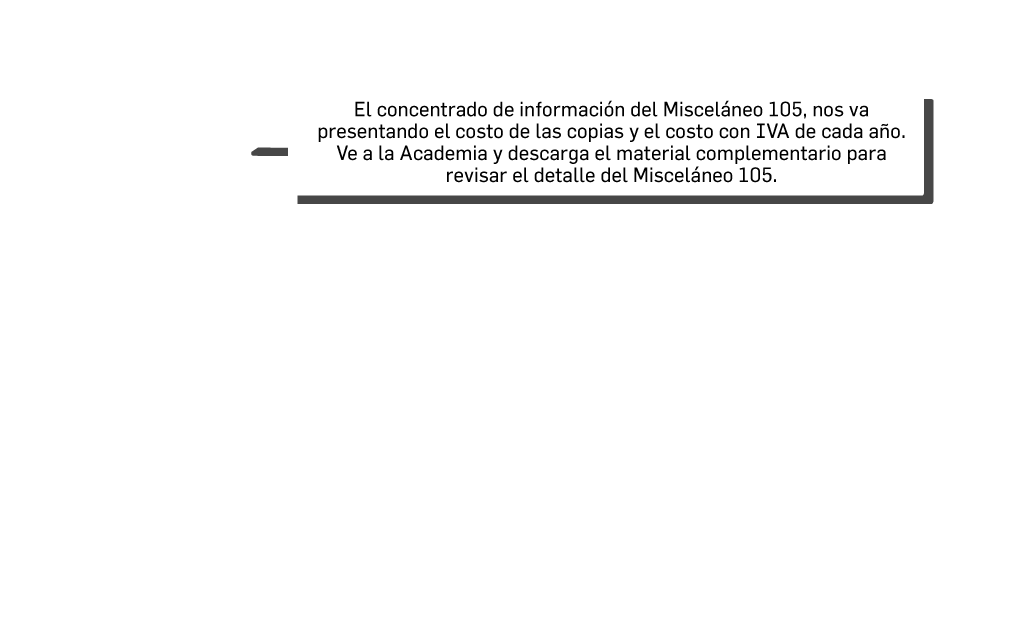
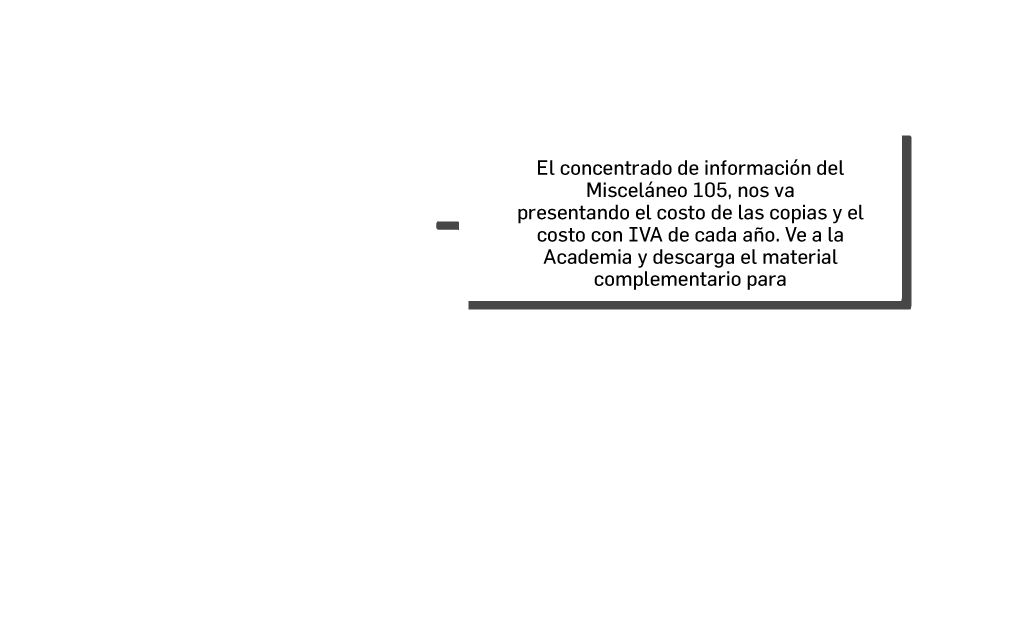
:zap: Ajustes diseño

Changed region(s): [[0.2812, 0.1532, 0.9375, 0.521], [0.25, 0.2145, 0.2812, 0.2758]]

diff --git a/paginas/pagina03.html b/paginas/pagina03.html
@@ -190,11 +190,11 @@
             opacity: 0.2;
           }
         </style>
-        <radialGradient id="_ÂÁ_Ï_ÌÌ_È_ËÂÌÚ_3" data-name="¡ÂÁ˚ÏˇÌÌ˚È „‡‰ËÂÌÚ 3" cx="3044.47" cy="266.32" r="5.34" gradientTransform="translate(-2880.82)" gradientUnits="userSpaceOnUse">
+        <radialGradient id="_ÂÁ_Ï_ÌÌ_È_ËÂÌÚ_3" data-name="¡ÂÁ˚ÏˇÌÌ˚È „‡‰ËÂÌÚ 3" cx="3136.01" cy="447.6" r="8.02" gradientTransform="translate(-2880.82)" gradientUnits="userSpaceOnUse">
           <stop offset="0" stop-color="#4aeaff"/>
           <stop offset="1" stop-color="#00709d"/>
         </radialGradient>
-        <linearGradient id="linear-gradient" x1="414.51" y1="173.02" x2="414.51" y2="202.48" gradientTransform="translate(-242.09)" gradientUnits="userSpaceOnUse">
+        <linearGradient id="linear-gradient" x1="510.44" y1="307.59" x2="510.44" y2="351.79" gradientTransform="translate(-242.09)" gradientUnits="userSpaceOnUse">
           <stop offset="0.02" stop-color="#dc2a21"/>
           <stop offset="0.06" stop-color="#c7201b"/>
           <stop offset="0.1" stop-color="#b61717"/>
@@ -203,7 +203,7 @@
           <stop offset="0.43" stop-color="#a20d11"/>
           <stop offset="0.79" stop-color="#6b0006"/>
         </linearGradient>
-        <linearGradient id="linear-gradient-2" x1="405.96" y1="174.34" x2="405.96" y2="195.48" gradientTransform="translate(-242.09)" gradientUnits="userSpaceOnUse">
+        <linearGradient id="linear-gradient-2" x1="497.6" y1="309.57" x2="497.6" y2="341.29" gradientTransform="translate(-242.09)" gradientUnits="userSpaceOnUse">
           <stop offset="0" stop-color="#ac1a27"/>
           <stop offset="0.08" stop-color="#9e151f"/>
           <stop offset="0.28" stop-color="#7d0a0e"/>
@@ -212,28 +212,28 @@
           <stop offset="0.73" stop-color="#520000"/>
           <stop offset="1" stop-color="#3f0000"/>
         </linearGradient>
-        <linearGradient id="linear-gradient-3" x1="532.12" y1="185.22" x2="546.24" y2="185.22" gradientTransform="matrix(-1, 0, 0, 1, 728.44, 0)" gradientUnits="userSpaceOnUse">
+        <linearGradient id="linear-gradient-3" x1="424.23" y1="325.9" x2="445.42" y2="325.9" gradientTransform="matrix(-1, 0, 0, 1, 728.44, 0)" gradientUnits="userSpaceOnUse">
           <stop offset="0" stop-color="#bd1349"/>
           <stop offset="0.24" stop-color="#bd124e"/>
           <stop offset="0.25" stop-color="#bd124e"/>
           <stop offset="1" stop-color="#7a0025"/>
         </linearGradient>
-        <linearGradient id="linear-gradient-4" x1="528.01" y1="192.25" x2="546.3" y2="192.25" gradientTransform="matrix(-1, 0, 0, 1, 728.44, 0)" gradientUnits="userSpaceOnUse">
+        <linearGradient id="linear-gradient-4" x1="418.05" y1="336.44" x2="445.51" y2="336.44" gradientTransform="matrix(-1, 0, 0, 1, 728.44, 0)" gradientUnits="userSpaceOnUse">
           <stop offset="0" stop-color="#282880"/>
           <stop offset="0.27" stop-color="#26257c"/>
           <stop offset="0.56" stop-color="#1f1b6f"/>
           <stop offset="0.85" stop-color="#140b5a"/>
           <stop offset="1" stop-color="#0d004c"/>
         </linearGradient>
-        <linearGradient id="linear-gradient-5" x1="532.33" y1="192.25" x2="546.24" y2="192.25" xlink:href="#linear-gradient-3"/>
-        <linearGradient id="linear-gradient-6" x1="535.15" y1="185.16" x2="552.62" y2="185.16" xlink:href="#linear-gradient-4"/>
-        <linearGradient id="linear-gradient-7" x1="419.29" y1="191.55" x2="419.29" y2="181.54" gradientTransform="translate(-242.09)" gradientUnits="userSpaceOnUse">
+        <linearGradient id="linear-gradient-5" x1="424.55" y1="336.44" x2="445.41" y2="336.44" xlink:href="#linear-gradient-3"/>
+        <linearGradient id="linear-gradient-6" x1="428.78" y1="325.81" x2="454.99" y2="325.81" xlink:href="#linear-gradient-4"/>
+        <linearGradient id="linear-gradient-7" x1="517.61" y1="335.39" x2="517.61" y2="320.38" gradientTransform="translate(-242.09)" gradientUnits="userSpaceOnUse">
           <stop offset="0" stop-color="#ec2d24"/>
           <stop offset="0.12" stop-color="#ec2824"/>
           <stop offset="0.25" stop-color="#eb1c24"/>
           <stop offset="1" stop-color="#74020d"/>
         </linearGradient>
-        <radialGradient id="radial-gradient" cx="3236.34" cy="391.8" r="10.62" gradientTransform="matrix(0.74, 0.02, -0.03, 0.82, -2288.1, -206.49)" gradientUnits="userSpaceOnUse">
+        <radialGradient id="radial-gradient" cx="3321.97" cy="562.71" r="15.94" gradientTransform="matrix(0.74, 0.02, -0.03, 0.82, -2288.1, -206.49)" gradientUnits="userSpaceOnUse">
           <stop offset="0" stop-color="#00ddde" stop-opacity="0.52"/>
           <stop offset="0.09" stop-color="#2de6e7" stop-opacity="0.65"/>
           <stop offset="0.2" stop-color="#63f1f1" stop-opacity="0.8"/>
@@ -252,11 +252,11 @@
           <stop offset="0.94" stop-color="#baf5f6" stop-opacity="0.27"/>
           <stop offset="1" stop-color="#fff" stop-opacity="0"/>
         </radialGradient>
-        <linearGradient id="_ÂÁ_Ï_ÌÌ_È_ËÂÌÚ_14" data-name="¡ÂÁ˚ÏˇÌÌ˚È „‡‰ËÂÌÚ 14" x1="2975.49" y1="251.72" x2="3034.93" y2="251.72" gradientTransform="translate(-2856.17 13.43) rotate(-2.88)" gradientUnits="userSpaceOnUse">
+        <linearGradient id="_ÂÁ_Ï_ÌÌ_È_ËÂÌÚ_14" data-name="¡ÂÁ˚ÏˇÌÌ˚È „‡‰ËÂÌÚ 14" x1="3043.83" y1="360.9" x2="3133.03" y2="360.9" gradientTransform="translate(-2856.17 13.43) rotate(-2.88)" gradientUnits="userSpaceOnUse">
           <stop offset="0" stop-color="#003a6b"/>
           <stop offset="1" stop-color="#00204c"/>
         </linearGradient>
-        <linearGradient id="_ÂÁ_Ï_ÌÌ_È_ËÂÌÚ_2" data-name="¡ÂÁ˚ÏˇÌÌ˚È „‡‰ËÂÌÚ 2" x1="3025.44" y1="88.86" x2="3055.56" y2="139.6" gradientTransform="translate(-2880.82)" gradientUnits="userSpaceOnUse">
+        <linearGradient id="_ÂÁ_Ï_ÌÌ_È_ËÂÌÚ_2" data-name="¡ÂÁ˚ÏˇÌÌ˚È „‡‰ËÂÌÚ 2" x1="3107.45" y1="181.29" x2="3152.64" y2="257.44" gradientTransform="translate(-2880.82)" gradientUnits="userSpaceOnUse">
           <stop offset="0" stop-color="#cad6e0"/>
           <stop offset="0.05" stop-color="#aec0d0"/>
           <stop offset="0.15" stop-color="#7998b1"/>
@@ -276,115 +276,115 @@
           </g>
           <g id="brazoDerecho">
             <g>
-              <path class="cls-3" d="M225.5,199.12c-8.77-29.16-24.59-39-24.59-39s-6.8-1.2-13.25,7.87a13.74,13.74,0,0,0-1.92,12.39s27.08,27.09,33.95,35.94S228.8,210.07,225.5,199.12Z"/>
-              <path class="cls-3" d="M225.5,199.12c-8.77-29.16-24.59-39-24.59-39s-6.8-1.2-13.25,7.87a13.74,13.74,0,0,0-1.92,12.39s27.08,27.09,33.95,35.94S228.8,210.07,225.5,199.12Z"/>
-              <path class="cls-4" d="M223.55,203.83c-6.14-17.23-11.73-25.45-17.23-30-9.43-7.84-16.53-6.45-21-.5a13.78,13.78,0,0,1,2.33-5.31c6.45-9.07,13.25-7.87,13.25-7.87s15.82,9.82,24.59,39c2.28,7.57,1.91,17.12-.8,19.38C224.9,217.69,227.21,214.08,223.55,203.83Z"/>
-              <path class="cls-3" d="M208.26,203a13.08,13.08,0,0,1,2.28,7.37,15.3,15.3,0,0,1-1.31,4.39,3.38,3.38,0,0,0,3.3-.71c1.64-1.38,2.11-3.79,2.44-4.84S208.26,203,208.26,203Z"/>
-              <path class="cls-5" d="M206.31,181.35a98.58,98.58,0,0,0-8-7.69c-1.41-1.15,0-2.32,1.26-1.53,2.8,1.73,6.89,5.86,12,11.84,3,3.49,11,17.58,11.86,26.87A79.17,79.17,0,0,0,206.31,181.35Z"/>
-              <path class="cls-6" d="M225.13,196.12l0,0a.41.41,0,0,0-.51.11c-3.54,4.95-10.92,8.66-17.61,5.78a.41.41,0,0,0-.5.15.29.29,0,0,0,.17.42c7.08,3,14.86-.83,18.57-6A.28.28,0,0,0,225.13,196.12Z"/>
+              <path class="cls-3" d="M347,341.77c-13.17-41.4-36.91-55.34-36.91-55.34s-10.2-1.71-19.88,11.16a18.64,18.64,0,0,0-2.88,17.6s40.63,38.47,50.94,51S352,357.32,347,341.77Z"/>
+              <path class="cls-3" d="M347,341.77c-13.17-41.4-36.91-55.34-36.91-55.34s-10.2-1.71-19.88,11.16a18.64,18.64,0,0,0-2.88,17.6s40.63,38.47,50.94,51S352,357.32,347,341.77Z"/>
+              <path class="cls-4" d="M344.08,348.46c-9.22-24.46-17.6-36.14-25.86-42.62-14.15-11.12-24.8-9.15-31.49-.7a19.11,19.11,0,0,1,3.49-7.55c9.68-12.87,19.88-11.16,19.88-11.16s23.74,13.94,36.91,55.34c3.42,10.75,2.86,24.31-1.21,27.52C346.1,368.14,349.57,363,344.08,348.46Z"/>
+              <path class="cls-3" d="M321.13,347.25c2.29,2.57,3.57,7.9,3.42,10.47a21,21,0,0,1-2,6.24,5.32,5.32,0,0,0,5-1c2.46-2,3.17-5.38,3.66-6.87S321.13,347.25,321.13,347.25Z"/>
+              <path class="cls-5" d="M318.21,316.55a147.09,147.09,0,0,0-12-10.93c-2.11-1.63-.05-3.3,1.89-2.17,4.21,2.46,10.34,8.33,18,16.81,4.46,5,16.48,25,17.79,38.15A110.75,110.75,0,0,0,318.21,316.55Z"/>
+              <path class="cls-6" d="M346.45,337.51l0,0a.63.63,0,0,0-.76.15c-5.32,7-16.39,12.29-26.44,8.21a.61.61,0,0,0-.74.21.41.41,0,0,0,.25.6c10.63,4.32,22.29-1.18,27.87-8.55A.4.4,0,0,0,346.45,337.51Z"/>
             </g>
-            <path class="cls-7" d="M201.56,170.6c.55-8-2.25-14.67-6.26-14.87s-7.69,6.12-8.24,14.14,2.26,14.66,6.26,14.87S201,178.61,201.56,170.6Z"/>
+            <path class="cls-7" d="M311.08,301.28c.82-11.38-3.38-20.83-9.39-21.12s-11.55,8.7-12.37,20.07,3.38,20.83,9.39,21.12S310.26,312.65,311.08,301.28Z"/>
           </g>
           <g id="torso">
-            <path class="cls-3" d="M110.59,151.24c-4.15-.27-18.78,14.41-14.38,28.65s29.34,61.75,35,78.39,9,20.73,17.06,22.24,20.17,2.06,34.23-27.31,16.23-62.35,16.87-78-1-21.89-6.48-23.68C180.1,147.34,110.59,151.24,110.59,151.24Z"/>
-            <path class="cls-5" d="M176.81,249.75c10.9-30.89,9.59-64.1,8.58-79.84-.68-10.46-1.91-16.63-4.32-19.95-11.62-.65-28.59-.36-43,.1,7.69,20.28,19.06,54.44,21,89.63,1.26,23.48-2,34.95-6.47,40.82C159.9,279.05,168.69,272.74,176.81,249.75Z"/>
-            <path class="cls-8" d="M194.09,152.81c0,3.05-21.51,7.77-43.22,7.81S107.64,156,107.63,153s21.52-3.32,43.23-3.35S194.08,149.77,194.09,152.81Z"/>
-            <path class="cls-9" d="M181,153.43c0,2.11-14.82,5.38-29.77,5.4s-29.78-3.19-29.79-5.3,14.82-2.3,29.78-2.32S181,151.33,181,153.43Z"/>
-            <path class="cls-10" d="M171.87,154.53c0,.8-10.22,1.82-20.18,1.84s-19.5-1-19.5-1.78,9.53-1.12,19.49-1.14S171.87,153.72,171.87,154.53Z"/>
-            <path class="cls-11" d="M140.12,261.72c-2.3-12.45-5.74-53.17-13.93-81.91-4.1-14.4-13.76-24.56-23.1-21.34-6.64,2.28-9.26,13.72-6.88,21.42,4.41,14.24,29.34,61.75,35,78.39s9,20.73,17.06,22.24c4.14.78,9.36,1.29,15.38-2.4C155.49,279.4,143.94,282.34,140.12,261.72Z"/>
-            <path class="cls-12" d="M168.85,267.78a14.82,14.82,0,0,1-4.94.82,22.76,22.76,0,0,1-5.54-.41,2.21,2.21,0,0,1-1.93-2.05h0a2,2,0,0,1,1.94-2.06s4.25.48,5.29.47a36.87,36.87,0,0,0,5.38-.51c1.06,0,2.06.32,1.74,1.85A2.65,2.65,0,0,1,168.85,267.78Z"/>
-            <path class="cls-13" d="M168.17,267.55a15,15,0,0,1-4.27.58,23.77,23.77,0,0,1-4.79-.29c-.89-.18-1.67-.66-1.67-1.46h0a1.58,1.58,0,0,1,1.68-1.46s3.68.34,4.57.33a40.29,40.29,0,0,0,4.65-.36c.92,0,1.78.22,1.5,1.31C169.72,266.71,169.29,267.21,168.17,267.55Z"/>
-            <path class="cls-6" d="M162.71,258.39c-9.78,0-21.77-2.12-34.7-7.43a.35.35,0,0,1,.26-.65c24.1,9.91,44.83,8.65,53.9,3.29a.35.35,0,0,1,.47.12.34.34,0,0,1-.12.48C178.21,256.75,171.32,258.39,162.71,258.39Z"/>
-            <path class="cls-14" d="M162.46,257.62c-9.78,0-21.77-2.12-34.7-7.44a.33.33,0,0,1-.19-.45.34.34,0,0,1,.45-.19c24.1,9.9,44.83,8.65,53.9,3.29a.34.34,0,1,1,.35.59C178,256,171.06,257.62,162.46,257.62Z"/>
-            <path class="cls-5" d="M197.53,159.27c1.85,37.66-3.58,55.48-3.58,55.48s5.19-28.46.4-55.95C193.69,155,197.24,153.39,197.53,159.27Z"/>
-            <path class="cls-14" d="M111,156.64s4.28,2.58,20,4,36.29,1.17,36.29,1.17-19,2.52-36.37.65S111,156.64,111,156.64Z"/>
-            <path class="cls-15" d="M166.2,265.13c-.76.06-1.64.11-2.51.12s-4.57-.33-4.57-.33a2,2,0,0,0-.35,0l1.69,3.08a31.72,31.72,0,0,0,3.44.1,15.82,15.82,0,0,0,4-.5Z"/>
+            <path class="cls-3" d="M175.56,274.91c-6.22-.4-28.17,21.61-21.57,43s44,92.67,52.49,117.63,13.56,31.12,25.6,33.38,30.26,3.09,51.37-41,24.35-93.56,25.31-117.08S307.26,278,299,275.31C279.87,269.05,175.56,274.91,175.56,274.91Z"/>
+            <path class="cls-5" d="M274.93,422.73c16.36-46.36,14.39-96.19,12.87-119.81-1-15.69-2.86-24.95-6.47-29.93-17.44-1-42.9-.55-64.48.14,11.54,30.44,28.59,81.7,31.43,134.51,1.9,35.23-3,52.44-9.71,61.25C249.56,466.7,262.75,457.23,274.93,422.73Z"/>
+            <path class="cls-8" d="M300.86,277.27c0,4.56-32.28,11.66-64.84,11.71s-64.88-6.93-64.89-11.5,32.29-5,64.86-5S300.86,272.7,300.86,277.27Z"/>
+            <path class="cls-9" d="M281.17,278.2c0,3.16-22.23,8.06-44.67,8.1s-44.69-4.79-44.69-7.95,22.24-3.45,44.67-3.49S281.17,275,281.17,278.2Z"/>
+            <path class="cls-10" d="M267.52,279.84c0,1.21-15.33,2.74-30.28,2.76S208,281.15,208,279.94s14.31-1.69,29.25-1.72S267.52,278.63,267.52,279.84Z"/>
+            <path class="cls-11" d="M219.89,440.69C216.42,422,211.26,360.9,199,317.78c-6.15-21.61-20.64-36.86-34.67-32-10,3.43-13.89,20.59-10.32,32.14,6.61,21.37,44,92.67,52.49,117.63s13.56,31.12,25.6,33.38c6.21,1.17,14,1.94,23.07-3.6C242.94,467.22,225.62,471.63,219.89,440.69Z"/>
+            <path class="cls-12" d="M263,449.79a22.32,22.32,0,0,1-7.43,1.22,33.88,33.88,0,0,1-8.3-.61c-1.55-.39-2.9-1.39-2.9-3.08h0a3,3,0,0,1,2.91-3.08s6.38.71,7.94.7a57.55,57.55,0,0,0,8.07-.76c1.59,0,3.09.47,2.61,2.76C265.68,448,264.93,449.06,263,449.79Z"/>
+            <path class="cls-13" d="M262,449.44a22.31,22.31,0,0,1-6.41.87,35.31,35.31,0,0,1-7.18-.43c-1.34-.28-2.51-1-2.51-2.2h0a2.38,2.38,0,0,1,2.52-2.19s5.52.51,6.86.5a60.28,60.28,0,0,0,7-.54c1.38,0,2.68.33,2.26,2C264.29,448.18,263.65,448.93,262,449.44Z"/>
+            <path class="cls-6" d="M253.78,435.69c-14.67,0-32.66-3.18-52.07-11.15a.52.52,0,0,1-.28-.68.51.51,0,0,1,.67-.28c36.16,14.86,67.28,13,80.88,4.93a.52.52,0,0,1,.71.18.51.51,0,0,1-.18.71C277,433.23,266.69,435.69,253.78,435.69Z"/>
+            <path class="cls-14" d="M253.4,434.53c-14.68,0-32.67-3.18-52.07-11.16a.51.51,0,0,1-.29-.67.53.53,0,0,1,.68-.29c36.16,14.87,67.27,13,80.88,4.94a.51.51,0,0,1,.71.18.53.53,0,0,1-.18.71C276.66,432.07,266.31,434.53,253.4,434.53Z"/>
+            <path class="cls-5" d="M306,287c2.78,56.5-5.37,83.24-5.37,83.24s7.79-42.69.6-84C300.27,280.58,305.59,278.13,306,287Z"/>
+            <path class="cls-14" d="M176.11,283s6.42,3.87,29.94,6.06,54.45,1.76,54.45,1.76-28.52,3.78-54.57,1S176.11,283,176.11,283Z"/>
+            <path class="cls-15" d="M259,445.8c-1.13.1-2.46.18-3.76.19s-6.86-.5-6.86-.5a2.32,2.32,0,0,0-.53.05l2.54,4.62a49,49,0,0,0,5.16.15,23.41,23.41,0,0,0,6-.75Z"/>
             <g>
-              <path class="cls-16" d="M162.43,185.07a13.3,13.3,0,0,1,8.3-12.32,14.24,14.24,0,0,1,1.48.19,12.25,12.25,0,0,1,10.18,11.66c0,.14,0,.27,0,.4v.14h0a7.59,7.59,0,0,0-7.59-7.58,7.49,7.49,0,0,0-2.47.42c.75-.27.72-.27-.05,0a7.28,7.28,0,0,0-9.8,7.06v.07a7.15,7.15,0,0,0,7.17,7.45,7.4,7.4,0,0,0,2.34-.38,7.59,7.59,0,0,0,10.4-6.92,12.14,12.14,0,0,1-10.11,11.92,15.26,15.26,0,0,1-1.55.19A13.31,13.31,0,0,1,162.43,185.07Z"/>
-              <path class="cls-17" d="M167.23,185.16a7.58,7.58,0,0,0,4.77,7.05,7.4,7.4,0,0,1-2.34.38,7.15,7.15,0,0,1-7.17-7.45v-.07a7.28,7.28,0,0,1,9.8-7.06c.77-.29.8-.29.05,0A7.58,7.58,0,0,0,167.23,185.16Z"/>
-              <path class="cls-18" d="M169.66,172.71c.36,0,.72,0,1.07,0a13.3,13.3,0,0,0,0,24.65c-.33,0-.67,0-1,0A12.36,12.36,0,0,1,157,185.07V185C157,178.21,162.28,172.71,169.66,172.71Z"/>
-              <path class="cls-19" d="M182.4,185.16v0Z"/>
-              <path class="cls-20" d="M172.21,192.14c.79.28.78.29,0,0Z"/>
-              <path class="cls-21" d="M172.21,192.14c.79.28.78.29,0,0Z"/>
-              <path class="cls-22" d="M174.81,192.75a7.52,7.52,0,0,1-2.81-.54l.21-.07c.78.29.79.28,0,0a7.39,7.39,0,0,0,4.88-7.07V185a7.27,7.27,0,0,0-4.8-7l.05,0a7.49,7.49,0,0,1,2.47-.42,7.59,7.59,0,0,1,7.59,7.58v.14A7.59,7.59,0,0,1,174.81,192.75Z"/>
-              <path class="cls-23" d="M174.81,192.75a7.52,7.52,0,0,1-2.81-.54l.21-.07c.78.29.79.28,0,0a7.39,7.39,0,0,0,4.88-7.07V185a7.27,7.27,0,0,0-4.8-7l.05,0a7.49,7.49,0,0,1,2.47-.42,7.59,7.59,0,0,1,7.59,7.58v.14A7.59,7.59,0,0,1,174.81,192.75Z"/>
+              <path class="cls-16" d="M253.36,325.68a20,20,0,0,1,12.45-18.49,17.71,17.71,0,0,1,2.22.28A18.36,18.36,0,0,1,283.31,325c0,.2,0,.4,0,.6v.23a11.38,11.38,0,0,0-15.11-10.75c1.13-.4,1.08-.41-.06,0a11.2,11.2,0,0,0-3.85-.67c-6.35,0-10.86,5.12-10.86,11.27v.11c0,6.15,4.41,11.17,10.76,11.17a11.13,11.13,0,0,0,3.51-.56A11.38,11.38,0,0,0,283.32,326a18.18,18.18,0,0,1-15.17,17.88,21.62,21.62,0,0,1-2.32.29A20,20,0,0,1,253.36,325.68Z"/>
+              <path class="cls-17" d="M260.55,325.81a11.4,11.4,0,0,0,7.17,10.58,11.13,11.13,0,0,1-3.51.56c-6.35,0-10.76-5-10.76-11.17v-.11c0-6.15,4.51-11.27,10.86-11.27a11.2,11.2,0,0,1,3.85.67c1.14-.43,1.19-.42.06,0A11.39,11.39,0,0,0,260.55,325.81Z"/>
+              <path class="cls-18" d="M264.21,307.12c.54,0,1.07,0,1.6.07a19.95,19.95,0,0,0,0,37c-.5,0-1,.06-1.52.06-11.07,0-19.12-8.36-19.12-18.56v-.1C245.19,315.37,253.14,307.12,264.21,307.12Z"/>
+              <path class="cls-19" d="M283.33,325.81a1.21,1.21,0,0,1,0,.19,1.41,1.41,0,0,0,0-.2Z"/>
+              <path class="cls-20" d="M268,336.28c1.19.42,1.17.43,0,0Z"/>
+              <path class="cls-21" d="M268,336.28c1.19.42,1.17.43,0,0Z"/>
+              <path class="cls-22" d="M271.94,337.2a11.36,11.36,0,0,1-4.22-.81l.31-.11c1.17.43,1.19.42,0,0a11.11,11.11,0,0,0,7.33-10.61v-.1a10.93,10.93,0,0,0-7.2-10.5l.06,0a11.38,11.38,0,0,1,15.11,10.75,1.41,1.41,0,0,1,0,.2A11.38,11.38,0,0,1,271.94,337.2Z"/>
+              <path class="cls-23" d="M271.94,337.2a11.36,11.36,0,0,1-4.22-.81l.31-.11c1.17.43,1.19.42,0,0a11.11,11.11,0,0,0,7.33-10.61v-.1a10.93,10.93,0,0,0-7.2-10.5l.06,0a11.38,11.38,0,0,1,15.11,10.75,1.41,1.41,0,0,1,0,.2A11.38,11.38,0,0,1,271.94,337.2Z"/>
             </g>
           </g>
           <g id="brazoIzquierdo">
-            <path class="cls-24" d="M120.11,179.34c3,10.39.62,20.18-5.27,21.88s-13.1-5.36-16.08-15.75-.63-20.19,5.27-21.88S117.13,169,120.11,179.34Z"/>
-            <path class="cls-25" d="M112.36,199.48c-4.84,0-10.56-5.63-13.56-13.76-3.43-9.3-2-18.4,3.12-20.3s12.13,4.12,15.55,13.41,2,18.4-3.12,20.3A5.87,5.87,0,0,1,112.36,199.48ZM104,165.75a5.25,5.25,0,0,0-1.8.32c-4.79,1.77-6,10.47-2.71,19.41s9.87,14.76,14.66,13,6-10.48,2.72-19.41C113.93,171.21,108.49,165.75,104,165.75Z"/>
+            <path class="cls-24" d="M189.85,317.07c4.48,15.59.94,30.29-7.91,32.83s-19.65-8-24.13-23.63-.93-30.29,7.92-32.83S185.38,301.48,189.85,317.07Z"/>
+            <path class="cls-25" d="M178.22,347.29c-7.26,0-15.84-8.44-20.35-20.65-5.14-13.94-3-27.61,4.69-30.46s18.2,6.18,23.34,20.13,3,27.61-4.69,30.46A8.67,8.67,0,0,1,178.22,347.29Zm-12.6-50.61a7.76,7.76,0,0,0-2.7.48c-7.19,2.65-9,15.71-4.07,29.12s14.82,22.16,22,19.51,9-15.72,4.07-29.12C180.57,304.87,172.42,296.68,165.62,296.68Z"/>
             <g>
-              <path class="cls-3" d="M90.48,221.55c-5.58-29.9,3-41.92,7.59-47.51,1.35-1.64,6.35-6.81,11.26-4.08,5.77,3.21,6.33,15.28,6,17.35-1.23,8.06-9.58,38.6-11.27,49.71C102.24,249.1,92.87,234.33,90.48,221.55Z"/>
-              <path class="cls-4" d="M115.35,187.31c-.21,1.37-.63,3.39-1.18,5.84-1.66,7.08-4.75,19.33-7.12,29.65-1.34,5.74-2.46,10.87-3,14.22l-.09.53c-1.07-14.06,6.19-39.88,7.25-52.66.29-3.5,1.52-11.08-4.94-15.71a6,6,0,0,1,3,.78C115.1,173.17,115.66,185.24,115.35,187.31Z"/>
-              <path class="cls-5" d="M94.55,182.4c-9.09,14.67.84,49.37.84,49.37s-.87-26.35,1.7-38.56S97.66,177.4,94.55,182.4Z"/>
-              <path class="cls-4" d="M105.11,230.36a37.77,37.77,0,0,0,1.82,4.84,8.6,8.6,0,0,0,3.16,1.43c-.67-2.07-3.17-13.21-2.34-16.64C108.05,218.77,104.38,228.4,105.11,230.36Z"/>
-              <path class="cls-6" d="M108.12,220.22a.34.34,0,0,1-.33-.08c-4.61-4.26-12.3-6.28-17.45-1.62a.35.35,0,0,1-.47-.51c5.47-4.94,13.55-2.85,18.39,1.63a.34.34,0,0,1,0,.48A.31.31,0,0,1,108.12,220.22Z"/>
+              <path class="cls-3" d="M145.4,380.41c-8.38-44.86,4.51-62.91,11.39-71.3,2-2.46,9.52-10.21,16.88-6.12,8.66,4.82,9.51,22.93,9,26.05-1.85,12.09-14.38,57.92-16.91,74.59C163,421.76,149,399.58,145.4,380.41Z"/>
+              <path class="cls-4" d="M182.71,329c-.32,2-.94,5.08-1.76,8.75-2.51,10.63-7.13,29-10.69,44.5-2,8.61-3.7,16.31-4.46,21.34-.05.27-.09.53-.14.79-1.61-21.09,9.3-59.84,10.88-79,.43-5.26,2.28-16.64-7.41-23.58a9.06,9.06,0,0,1,4.54,1.16C182.33,307.81,183.18,325.92,182.71,329Z"/>
+              <path class="cls-5" d="M151.5,321.67c-13.64,22,1.25,74.08,1.25,74.08s-1.3-39.55,2.56-57.86S156.16,314.15,151.5,321.67Z"/>
+              <path class="cls-4" d="M167.34,393.63c1.09,2.94,1.71,5.48,2.74,7.27.35.62,4.84,2.49,4.73,2.14-1-3.1-4.75-19.82-3.5-25C171.75,376.24,166.25,390.7,167.34,393.63Z"/>
+              <path class="cls-6" d="M171.86,378.42a.49.49,0,0,1-.49-.12c-6.92-6.4-18.46-9.42-26.2-2.43a.52.52,0,0,1-.73,0,.51.51,0,0,1,0-.73c8.2-7.41,20.33-4.27,27.59,2.44a.51.51,0,0,1,0,.73A.45.45,0,0,1,171.86,378.42Z"/>
               <g>
-                <path class="cls-26" d="M106.81,189c-.15,4.83-3.79,8.63-8.14,8.5s-7.75-4.15-7.6-9,3.79-8.63,8.13-8.5S107,184.2,106.81,189Z"/>
+                <path class="cls-26" d="M169.89,331.6c-.22,7.24-5.69,12.95-12.21,12.75s-11.62-6.22-11.4-13.46,5.68-12.95,12.2-12.75S170.11,324.37,169.89,331.6Z"/>
                 <g>
-                  <path class="cls-27" d="M93.55,189.53a7.69,7.69,0,0,0,1.74,4.61,16.23,16.23,0,0,0,1.89,2.18s5-1.28,6.4-4.16c.29-.61,1.6-4.38,1.6-4.38s.4-.91-.34-1.33a24,24,0,0,1-2.55-1.44,7.23,7.23,0,0,0-1.69-1.09c-.48-.17-.7-.08-1.58,0a25.75,25.75,0,0,1-3-.08c-.88,0-1,1-1,1S93.6,188.85,93.55,189.53Z"/>
-                  <path class="cls-28" d="M95,184.82s-1.44,4-1.49,4.71c-.21,3.25,3.63,6.79,3.63,6.79h0s5-1.28,6.4-4.16c.29-.61,1.6-4.38,1.6-4.38s.4-.92-.34-1.33a24,24,0,0,1-2.55-1.44,7.23,7.23,0,0,0-1.69-1.09c-.48-.18-.7-.08-1.58,0a25.75,25.75,0,0,1-3-.08C95.15,183.81,95,184.82,95,184.82Zm.79-.16h.74a8.77,8.77,0,0,0,2.3,0c1.6-.31,2.08.5,2.85,1.05a14,14,0,0,0,2,1.13l.64.34a.65.65,0,0,1,0,.18l0,0c-.5,1.45-1.37,3.89-1.57,4.3a7,7,0,0,1-3.27,2.73,18.14,18.14,0,0,1-1.94.77,16.5,16.5,0,0,1-1.36-1.63,7.47,7.47,0,0,1-1.56-4.18,31.82,31.82,0,0,1,1.21-4.57Z"/>
-                  <path class="cls-29" d="M93.55,189.53c-.12,1.89,1.12,3.87,2.19,5.2A7.77,7.77,0,0,1,93.89,190c0-.68,1.49-4.71,1.49-4.71s.11-1,1-1a28.3,28.3,0,0,0,3,.07c.88-.06,1.09-.16,1.58,0a7.44,7.44,0,0,1,1.69,1.09,22.54,22.54,0,0,0,2.55,1.45l.06,0a.79.79,0,0,0-.4-.48,24,24,0,0,1-2.55-1.44,7.23,7.23,0,0,0-1.69-1.09c-.48-.18-.7-.08-1.58,0a25.75,25.75,0,0,1-3-.08c-.88,0-1,1-1,1S93.6,188.85,93.55,189.53Z"/>
-                  <path class="cls-28" d="M98.56,189.62a.3.3,0,0,0,.07.29l-.06.24a.07.07,0,0,0,.05.08l.19.05a.07.07,0,0,0,.08-.05L99,190a.32.32,0,1,0-.39-.38Z"/>
-                  <path class="cls-28" d="M98.56,188l-.12.46,1.39.36.12-.46a.72.72,0,1,0-1.39-.36Z"/>
-                  <path class="cls-28" d="M96,185.94s-.88,3-.91,3.48c-.19,2.41,2.5,5.19,2.5,5.19h0s3.56-1,4.57-3.15c.21-.46,1.18-3.28,1.18-3.28s.29-.69-.23-1a15.31,15.31,0,0,1-1.79-1c-.31-.23-.59-.42-.81-.56a4.31,4.31,0,0,0-.51-.28h0a2,2,0,0,0-1-.08,16.21,16.21,0,0,1-2.11,0C96.25,185.2,96,185.94,96,185.94Zm1.28,2.64a.38.38,0,0,1,.47-.28l.11,0,.12-.46a1.28,1.28,0,1,1,2.47.66l-.12.46.1,0a.39.39,0,0,1,.28.48l-.47,1.8a.41.41,0,0,1-.48.29l-2.68-.71a.39.39,0,0,1-.28-.48Z"/>
-                  <path class="cls-29" d="M95.13,189.42c-.14,1.73,1.21,3.66,2,4.6a6.87,6.87,0,0,1-1.64-4.16c0-.51.91-3.48.91-3.48s.21-.74.83-.73a16.33,16.33,0,0,0,2.11,0,1.91,1.91,0,0,1,1,.09h0a3.22,3.22,0,0,1,.5.28c.23.14.51.33.82.55a12.81,12.81,0,0,0,1.75,1,.62.62,0,0,0-.3-.41,15.31,15.31,0,0,1-1.79-1c-.31-.23-.58-.42-.81-.56a4.31,4.31,0,0,0-.51-.28h0a2,2,0,0,0-1-.08,16.21,16.21,0,0,1-2.11,0c-.62,0-.83.73-.83.73S95.17,188.91,95.13,189.42Z"/>
+                  <path class="cls-27" d="M150,332.37c-.16,2.43,1.21,5,2.61,6.92a24.44,24.44,0,0,0,2.84,3.26s7.53-1.92,9.6-6.24c.43-.91,2.41-6.57,2.41-6.57s.59-1.37-.52-2a35.56,35.56,0,0,1-3.82-2.16,11.38,11.38,0,0,0-2.55-1.64c-.72-.26-1-.11-2.36,0-1.64.11-3.17-.08-4.49-.11s-1.48,1.48-1.48,1.48S150.07,331.34,150,332.37Z"/>
+                  <path class="cls-28" d="M152.24,325.3s-2.17,6-2.24,7.07c-.31,4.87,5.45,10.18,5.45,10.18h0s7.53-1.92,9.6-6.25c.43-.9,2.4-6.57,2.4-6.57s.6-1.37-.51-2a35.56,35.56,0,0,1-3.82-2.16,11,11,0,0,0-2.55-1.64c-.72-.26-1-.11-2.36,0a39.83,39.83,0,0,1-4.49-.12C152.4,323.77,152.24,325.3,152.24,325.3Zm1.18-.25,1.11,0a13.25,13.25,0,0,0,3.46,0c2.39-.46,3.12.75,4.26,1.58a21.49,21.49,0,0,0,2.94,1.7l.95.5a1.51,1.51,0,0,1,0,.28.59.59,0,0,0,0,.08c-.75,2.17-2.06,5.83-2.35,6.45-.9,1.87-3.16,3.26-4.91,4.09a23.7,23.7,0,0,1-2.92,1.15,23.26,23.26,0,0,1-2-2.44c-1.13-1.57-2.48-4.17-2.34-6.27a45.59,45.59,0,0,1,1.81-6.85A2.71,2.71,0,0,1,153.42,325.05Z"/>
+                  <path class="cls-29" d="M150,332.37c-.18,2.82,1.68,5.8,3.28,7.79-1.46-2-2.94-4.61-2.77-7.14.07-1,2.23-7.06,2.23-7.06s.16-1.53,1.49-1.49a42.45,42.45,0,0,0,4.49.11c1.32-.1,1.64-.25,2.36,0a10.68,10.68,0,0,1,2.54,1.63,35.77,35.77,0,0,0,3.82,2.17.33.33,0,0,1,.1.06,1.21,1.21,0,0,0-.6-.72,37.37,37.37,0,0,1-3.82-2.16,10.68,10.68,0,0,0-2.55-1.64c-.72-.26-1-.11-2.36,0a39.93,39.93,0,0,1-4.49-.11c-1.32,0-1.48,1.49-1.48,1.49S150.07,331.34,150,332.37Z"/>
+                  <path class="cls-28" d="M157.51,332.49a.49.49,0,0,0,.12.45l-.1.35a.1.1,0,0,0,.07.12l.29.08a.11.11,0,0,0,.12-.07l.09-.36a.47.47,0,1,0-.59-.57Z"/>
+                  <path class="cls-28" d="M157.52,330.08l-.19.69,2.09.55.18-.69a1.08,1.08,0,1,0-2.08-.55Z"/>
+                  <path class="cls-28" d="M153.73,327s-1.31,4.46-1.37,5.22c-.27,3.61,3.76,7.79,3.76,7.79h0s5.35-1.5,6.86-4.74c.31-.67,1.77-4.92,1.77-4.92s.44-1-.35-1.48a24.29,24.29,0,0,1-2.69-1.56,14.44,14.44,0,0,0-1.22-.84,5.7,5.7,0,0,0-.76-.41h0a3,3,0,0,0-1.57-.12,25.16,25.16,0,0,1-3.16,0C154.06,325.87,153.73,327,153.73,327Zm1.92,3.95a.6.6,0,0,1,.72-.42l.15,0,.18-.69a1.92,1.92,0,1,1,3.72,1l-.18.69.15,0a.59.59,0,0,1,.41.72l-.71,2.71a.59.59,0,0,1-.71.42l-4-1.06a.59.59,0,0,1-.41-.72Z"/>
+                  <path class="cls-29" d="M152.37,332.2c-.21,2.59,1.82,5.48,3,6.91-1.15-1.55-2.64-4-2.47-6.26.06-.76,1.37-5.21,1.37-5.21s.32-1.12,1.25-1.11a23.39,23.39,0,0,0,3.16,0,2.92,2.92,0,0,1,1.57.13h0a5,5,0,0,1,.76.42,14.09,14.09,0,0,1,1.22.83,20.94,20.94,0,0,0,2.63,1.53.9.9,0,0,0-.45-.62,23.34,23.34,0,0,1-2.68-1.56c-.46-.34-.88-.63-1.23-.84a5.14,5.14,0,0,0-.76-.41h0a3,3,0,0,0-1.56-.13,23.66,23.66,0,0,1-3.17,0c-.93,0-1.25,1.1-1.25,1.1S152.42,331.44,152.37,332.2Z"/>
                 </g>
               </g>
             </g>
           </g>
           <g id="cabeza">
             <g>
-              <path class="cls-3" d="M113.88,139.66c9.88,12.72,40.11,10.29,48.53,9.49s22.7-2.27,27.84-17.78,2.57-39.16-11.56-51.46-52-10.29-64.81,6.28S110.46,135.25,113.88,139.66Z"/>
-              <path class="cls-14" d="M116.49,89.57c.56-.2,12.24-9.27,33.38-11.08,7.27-.63,18.62,0,25.9,1-.73-.76-11.18-6.8-32.75-4.56A42.6,42.6,0,0,0,116.49,89.57Z"/>
-              <path class="cls-5" d="M154.93,85.82c-6.81.11-13.63.59-20,3l-.15.06c6.66,14.1,7.2,32.48,3.3,45.61a27.89,27.89,0,0,1-5.66,10.66c11.76,2.07,24.92,1,30,.5,5.57-.53,13.7-1.36,20.06-6.34a31.45,31.45,0,0,0,1.84-4.82c3.95-13.31,3.34-32-3.57-46.16A109.71,109.71,0,0,0,154.93,85.82Z"/>
-              <path class="cls-30" d="M130.32,98.34c3.92-5.33,14.61-6.73,28-7.53,17.29-1,23.14,2.1,24.9,4.1s4.83,11.92,4.17,21.57-.76,12.55-4.73,15-15.44,4.75-22.84,4.93c-14,.34-21.12-.34-25.81-3.1-2.4-1.41-5.45-9-5.93-18.36S128.28,101.11,130.32,98.34Z"/>
-              <path class="cls-31" d="M157.85,92.3c-8.33.48-15.56,1.2-20.65,3,4.45,12.35,4.48,27,1.18,37.85l-.12.36c4.45,1.29,10.81,1.6,21,1.35,7.11-.16,18.1-2.36,21.92-4.6a6.85,6.85,0,0,0,3-3.11A64.51,64.51,0,0,0,182,96.44a2.79,2.79,0,0,0-.24-.31C180,94.26,174.43,91.34,157.85,92.3Z"/>
-              <path class="cls-7" d="M121.23,107.21c-.24,5.24-3.16,9.37-6.54,9.22s-5.93-4.52-5.7-9.77,3.16-9.36,6.54-9.21S121.46,102,121.23,107.21Z"/>
-              <path class="cls-32" d="M118.55,106.82c-.16,3.67-2,6.58-4,6.49s-3.58-3.15-3.41-6.82,2-6.59,4-6.5S118.72,103.14,118.55,106.82Z"/>
-              <path class="cls-25" d="M118.61,107.09h0a12.92,12.92,0,0,0-1.54-7A5.63,5.63,0,0,0,112.58,97c-3.55-.16-6.66,4.12-6.9,9.55s2.46,10,6,10.12h.19C115.38,116.65,118.37,112.42,118.61,107.09Zm-6.06-9.43a5,5,0,0,1,3.92,2.8,12.21,12.21,0,0,1,1.45,6.6c-.23,5-3,9-6.18,8.89s-5.59-4.36-5.37-9.4,2.9-8.89,6-8.89Z"/>
-              <path class="cls-5" d="M112.12,119.36l2.49.08s1,10.3,4,16.35,7.19,8,7.19,8-6.36-2.06-10.16-9.9C112.92,128.23,112.12,119.36,112.12,119.36Z"/>
-              <path class="cls-33" d="M132.65,99.13h0a1.31,1.31,0,0,0,1.89.45c1.21-.83,3.05-2.06,4.11-2.63,1.66-.91,9.92-4,9.92-4a37.94,37.94,0,0,0-15.3,4A1.56,1.56,0,0,0,132.65,99.13Z"/>
+              <path class="cls-3" d="M180.51,257.53c14.82,19.09,60.19,15.45,72.82,14.24s34.06-3.41,41.77-26.68,3.86-58.77-17.35-77.22-78-15.45-97.24,9.43S175.37,250.91,180.51,257.53Z"/>
+              <path class="cls-14" d="M184.42,182.37c.85-.3,18.36-13.92,50.09-16.64,10.92-.93,27.94,0,38.86,1.52-1.08-1.15-16.77-10.22-49.14-6.85C216.34,161.23,198,166.17,184.42,182.37Z"/>
+              <path class="cls-5" d="M242.1,176.74c-10.22.16-20.45.88-30.08,4.54l-.22.09c10,21.16,10.81,48.74,5,68.45a41.54,41.54,0,0,1-8.5,16c17.65,3.11,37.4,1.48,45.07.75,8.36-.79,20.56-2,30.1-9.51a47.57,47.57,0,0,0,2.76-7.23c5.93-20,5-48-5.36-69.28A164.61,164.61,0,0,0,242.1,176.74Z"/>
+              <path class="cls-30" d="M205.17,195.53c5.88-8,21.93-10.1,42-11.3,25.94-1.55,34.71,3.15,37.36,6.15s7.25,17.89,6.26,32.37-1.15,18.83-7.11,22.43-23.16,7.13-34.27,7.4c-21.06.51-31.68-.51-38.72-4.65-3.6-2.12-8.18-13.5-8.9-27.55S202.12,199.68,205.17,195.53Z"/>
+              <path class="cls-31" d="M246.48,186.46c-12.49.73-23.34,1.81-31,4.5,6.68,18.54,6.73,40.53,1.77,56.8l-.18.54c6.67,1.93,16.22,2.4,31.54,2,10.66-.25,27.17-3.55,32.89-6.91a10.13,10.13,0,0,0,4.47-4.67,97,97,0,0,0-3.29-46.07,5.16,5.16,0,0,0-.37-.47C279.79,189.41,271.37,185,246.48,186.46Z"/>
+              <path class="cls-7" d="M191.53,208.83c-.35,7.87-4.74,14.06-9.81,13.84s-8.9-6.79-8.55-14.65S177.91,194,183,194.18,191.88,201,191.53,208.83Z"/>
+              <path class="cls-32" d="M187.52,208.24c-.25,5.52-2.94,9.89-6,9.75s-5.37-4.72-5.12-10.24,2.93-9.89,6-9.75S187.76,202.72,187.52,208.24Z"/>
+              <path class="cls-25" d="M187.6,208.66l-.52,0,.52,0a19.43,19.43,0,0,0-2.31-10.48c-1.71-2.92-4.1-4.6-6.73-4.71-5.33-.24-10,6.19-10.36,14.33s3.7,14.95,9,15.19h.29C182.76,223,187.24,216.65,187.6,208.66Zm-9.09-14.15c2.27.1,4.36,1.59,5.88,4.2a18.26,18.26,0,0,1,2.17,9.9c-.34,7.57-4.5,13.53-9.27,13.34s-8.39-6.54-8-14.11,4.35-13.34,9-13.34Z"/>
+              <path class="cls-5" d="M177.87,227.07l3.72.12s1.59,15.46,6,24.53,10.79,12,10.79,12-9.54-3.08-15.24-14.85C179.07,240.38,177.87,227.07,177.87,227.07Z"/>
+              <path class="cls-33" d="M208.66,196.71l0,0a2,2,0,0,0,2.83.67c1.81-1.24,4.57-3.09,6.16-4,2.5-1.36,14.89-5.94,14.89-5.94s-12.42.26-23,6A2.36,2.36,0,0,0,208.66,196.71Z"/>
             </g>
-            <path class="cls-34" d="M126.16,106c0,1.63-.76,3-1.69,3s-1.69-1.32-1.69-3,.76-2.94,1.69-2.94S126.16,104.38,126.16,106Z"/>
+            <path class="cls-34" d="M198.93,207c0,2.44-1.13,4.42-2.53,4.42s-2.54-2-2.54-4.42,1.14-4.41,2.54-4.41S198.93,204.58,198.93,207Z"/>
           </g>
           <g id="ojos">
             <g>
-              <rect class="cls-35" x="146.22" y="102.01" width="11.92" height="15.58" rx="4.28"/>
-              <rect class="cls-35" x="147.47" y="103.68" width="9.42" height="12.23" rx="4.28"/>
-              <rect class="cls-36" x="149.06" y="105.25" width="6.54" height="9.52" rx="2.65"/>
-              <path class="cls-37" d="M154.9,108.92h-5.37a.26.26,0,0,1,0-.52h5.37a.26.26,0,1,1,0,.52Z"/>
-              <path class="cls-37" d="M154.9,110.05h-5.37a.26.26,0,0,1-.26-.26.26.26,0,0,1,.26-.26h5.37a.26.26,0,0,1,.26.26A.26.26,0,0,1,154.9,110.05Z"/>
-              <path class="cls-37" d="M154.9,111.23h-5.37a.26.26,0,0,1,0-.52h5.37a.26.26,0,1,1,0,.52Z"/>
-              <path class="cls-37" d="M154.21,106.74h-4a.26.26,0,0,1-.26-.26.26.26,0,0,1,.26-.26h4a.26.26,0,0,1,.26.26A.25.25,0,0,1,154.21,106.74Z"/>
-              <path class="cls-37" d="M154.9,107.92h-5.37a.26.26,0,0,1-.26-.26.26.26,0,0,1,.26-.26h5.37a.26.26,0,0,1,.26.26A.26.26,0,0,1,154.9,107.92Z"/>
-              <path class="cls-37" d="M154.9,112.63h-5.37a.26.26,0,0,1,0-.52h5.37a.26.26,0,1,1,0,.52Z"/>
-              <path class="cls-37" d="M154.9,113.76h-5.37a.26.26,0,0,1-.26-.26.26.26,0,0,1,.26-.26h5.37a.26.26,0,0,1,.26.26A.26.26,0,0,1,154.9,113.76Z"/>
+              <rect class="cls-35" x="229.03" y="201.03" width="17.89" height="23.37" rx="4.28"/>
+              <rect class="cls-35" x="230.91" y="203.54" width="14.14" height="18.35" rx="4.28"/>
+              <rect class="cls-36" x="233.29" y="205.9" width="9.81" height="14.28" rx="2.65"/>
+              <path class="cls-37" d="M242.06,211.4H234a.38.38,0,0,1-.39-.39.39.39,0,0,1,.39-.39h8.06a.4.4,0,0,1,.39.39A.39.39,0,0,1,242.06,211.4Z"/>
+              <path class="cls-37" d="M242.06,213.1H234a.38.38,0,0,1-.39-.39.39.39,0,0,1,.39-.39h8.06a.4.4,0,0,1,.39.39A.39.39,0,0,1,242.06,213.1Z"/>
+              <path class="cls-37" d="M242.06,214.87H234a.39.39,0,0,1-.39-.39.38.38,0,0,1,.39-.39h8.06a.39.39,0,0,1,.39.39A.4.4,0,0,1,242.06,214.87Z"/>
+              <path class="cls-37" d="M241,208.14h-6a.39.39,0,0,1-.39-.39.38.38,0,0,1,.39-.39h6a.38.38,0,0,1,.39.39A.39.39,0,0,1,241,208.14Z"/>
+              <path class="cls-37" d="M242.06,209.9H234a.38.38,0,0,1-.39-.39.39.39,0,0,1,.39-.39h8.06a.4.4,0,0,1,.39.39A.39.39,0,0,1,242.06,209.9Z"/>
+              <path class="cls-37" d="M242.06,217H234a.39.39,0,0,1-.39-.39.38.38,0,0,1,.39-.39h8.06a.39.39,0,0,1,.39.39A.4.4,0,0,1,242.06,217Z"/>
+              <path class="cls-37" d="M242.06,218.67H234a.39.39,0,0,1-.39-.39.38.38,0,0,1,.39-.39h8.06a.39.39,0,0,1,.39.39A.4.4,0,0,1,242.06,218.67Z"/>
             </g>
             <g>
-              <rect class="cls-35" x="165.22" y="102.01" width="11.92" height="15.58" rx="4.28"/>
-              <rect class="cls-35" x="166.47" y="103.68" width="9.42" height="12.23" rx="4.28"/>
-              <rect class="cls-36" x="168.06" y="105.25" width="6.54" height="9.52" rx="2.65"/>
-              <path class="cls-37" d="M173.9,108.92h-5.37a.26.26,0,0,1,0-.52h5.37a.26.26,0,1,1,0,.52Z"/>
-              <path class="cls-37" d="M173.9,110.05h-5.37a.26.26,0,0,1-.26-.26.26.26,0,0,1,.26-.26h5.37a.26.26,0,0,1,.26.26A.26.26,0,0,1,173.9,110.05Z"/>
-              <path class="cls-37" d="M173.9,111.23h-5.37a.26.26,0,0,1,0-.52h5.37a.26.26,0,1,1,0,.52Z"/>
-              <path class="cls-37" d="M173.22,106.74h-4a.26.26,0,0,1-.26-.26.26.26,0,0,1,.26-.26h4a.26.26,0,0,1,.26.26A.26.26,0,0,1,173.22,106.74Z"/>
-              <path class="cls-37" d="M173.9,107.92h-5.37a.26.26,0,0,1-.26-.26.26.26,0,0,1,.26-.26h5.37a.26.26,0,0,1,.26.26A.26.26,0,0,1,173.9,107.92Z"/>
-              <path class="cls-37" d="M173.9,112.63h-5.37a.26.26,0,0,1,0-.52h5.37a.26.26,0,1,1,0,.52Z"/>
-              <path class="cls-37" d="M173.9,113.76h-5.37a.26.26,0,0,1-.26-.26.26.26,0,0,1,.26-.26h5.37a.26.26,0,0,1,.26.26A.26.26,0,0,1,173.9,113.76Z"/>
+              <rect class="cls-35" x="257.55" y="201.03" width="17.89" height="23.37" rx="4.28"/>
+              <rect class="cls-35" x="259.42" y="203.54" width="14.14" height="18.35" rx="4.28"/>
+              <rect class="cls-36" x="261.8" y="205.9" width="9.81" height="14.28" rx="2.65"/>
+              <path class="cls-37" d="M270.57,211.4h-8.06a.38.38,0,0,1-.39-.39.39.39,0,0,1,.39-.39h8.06a.4.4,0,0,1,.39.39A.39.39,0,0,1,270.57,211.4Z"/>
+              <path class="cls-37" d="M270.57,213.1h-8.06a.38.38,0,0,1-.39-.39.39.39,0,0,1,.39-.39h8.06a.4.4,0,0,1,.39.39A.39.39,0,0,1,270.57,213.1Z"/>
+              <path class="cls-37" d="M270.57,214.87h-8.06a.39.39,0,0,1-.39-.39.38.38,0,0,1,.39-.39h8.06a.39.39,0,0,1,.39.39A.4.4,0,0,1,270.57,214.87Z"/>
+              <path class="cls-37" d="M269.54,208.14h-6a.39.39,0,0,1-.39-.39.38.38,0,0,1,.39-.39h6a.38.38,0,0,1,.39.39A.39.39,0,0,1,269.54,208.14Z"/>
+              <path class="cls-37" d="M270.57,209.9h-8.06a.38.38,0,0,1-.39-.39.39.39,0,0,1,.39-.39h8.06a.4.4,0,0,1,.39.39A.39.39,0,0,1,270.57,209.9Z"/>
+              <path class="cls-37" d="M270.57,217h-8.06a.39.39,0,0,1-.39-.39.38.38,0,0,1,.39-.39h8.06a.39.39,0,0,1,.39.39A.4.4,0,0,1,270.57,217Z"/>
+              <path class="cls-37" d="M270.57,218.67h-8.06a.39.39,0,0,1-.39-.39.38.38,0,0,1,.39-.39h8.06a.39.39,0,0,1,.39.39A.4.4,0,0,1,270.57,218.67Z"/>
             </g>
           </g>
-          <path id="boca" class="cls-38" d="M154.67,125.57c5.38.69,15,1.22,15,1.22s-8.54.87-14.11-.09S148.88,124.83,154.67,125.57Z"/>
+          <path id="boca" class="cls-38" d="M241.71,236.39c8.07,1,22.55,1.82,22.55,1.82s-12.81,1.31-21.16-.13S233,235.28,241.71,236.39Z"/>
           <g id="sombra">
             <g id="Sombra-2" data-name="Sombra">
-              <ellipse class="cls-39" cx="149.73" cy="296.27" rx="42.91" ry="9.63"/>
-              <ellipse class="cls-40" cx="149.73" cy="296.27" rx="33.43" ry="6.13"/>
-              <ellipse class="cls-40" cx="149.73" cy="296.27" rx="20.13" ry="3.69"/>
+              <ellipse class="cls-39" cx="234.31" cy="498.54" rx="64.39" ry="14.46"/>
+              <ellipse class="cls-40" cx="234.31" cy="498.54" rx="50.16" ry="9.19"/>
+              <ellipse class="cls-40" cx="234.31" cy="498.54" rx="30.2" ry="5.54"/>
             </g>
           </g>
         </g>
       </g>
-    </svg>       
+    </svg>             
     
     <img class="elementos" id="d1" src="../img/pagina03/d1.png" data-posX="0" data-posY="0" alt="">
     <img class="elementos" id="tabla" src="../img/pagina03/tabla.png" data-posX="0" data-posY="0" alt="">
